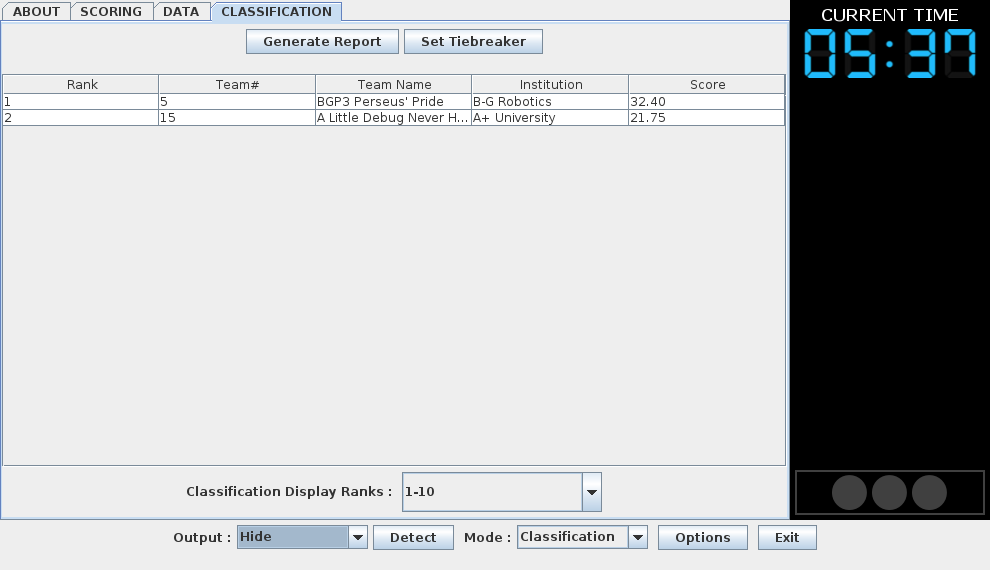
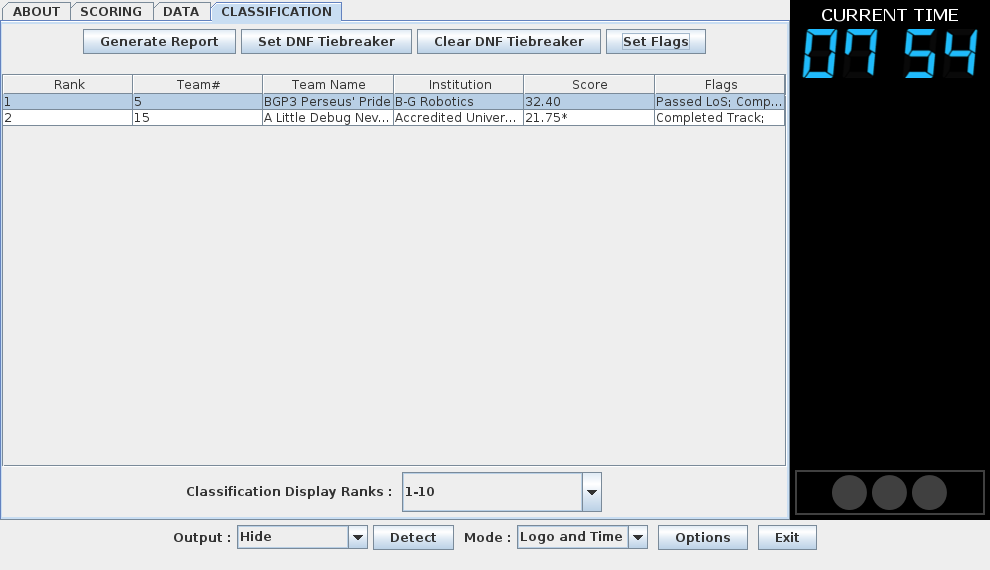
stuff

diff --git a/merccc/manual.html b/merccc/manual.html
@@ -10,14 +10,14 @@
 <body>
 <div class="container">
 <h1 id="top"><img alt="[*]" src="./images/merccc-logo.png" height="50" style="background-color: black; vertical-align: middle"> merccc</h1>
-<p class="centered">Manual for v1.3.0</p>
+<p class="centered">Manual for v1.4.0</p>
 <p>&#9662; <a href="./index.html#GET">Download <strong>merccc</strong></a></p>
 <h2>Table of Contents</h2>
 <p class="indent0">1. <a href="#config">Configuration</a></p>
 <p class="indent1">1.1 <a href="#config-encoding">File Encoding</a></p>
 <p class="indent1">1.2 <a href="#config-example">Example</a></p>
 <p class="indent1">1.3 <a href="#config-resources">Graphics and Sounds Resources</a></p>
-<p class="indent1">1.4 <a href="#config-variables">Formula Variables</a></p>
+<p class="indent1">1.4 <a href="#config-variables">Scoring</a></p>
 <p class="indent1">1.5 <a href="#config-teams">Team Definitions</a></p>
 <p class="indent0">2. <a href="#running">Running merccc</a></p>
 <p class="indent1">2.1 <a href="#running-cli">Command Line Options</a></p>
@@ -95,11 +95,21 @@ resources/0-badge.jpg<br />
 resources/1-badge.jpg<br />
 </p>
 <p>The configuration file and its resource directory can also be compressed into a ZIP file to simplify distribution and archival of the file. <strong>merccc</strong> can load the ZIP file directly.</p>
-<h3 id="config-variables">1.4 Formula Variables</h3>
+<h3 id="config-variables">1.4 Scoring</h3>
+<p>The <span class="mono">[formula]</span> section specifies the scoring formula with the <span class="mono">postfix</span> option. The formula has to be in postfix notation. The formula can have floating number literals. <strong>merccc</strong> supports the following operators to calculate a score: + - * / ^ and SQRT.</p>
 <p>The variables are defined in the <span class="mono">[fields]</span> section. All the variables used in the postfix formula must be specified in this section. The format for a variable entry is as follows:</p>
 <p class="mono">NAME=DESCRIPTION, DEFAULT_VALUE, TYPE, [POSSIBLE_VALUES]</p>
 <p><span class="mono">NAME</span> must correspond with the variable name used in the formula. <strong>merccc</strong> will use the <span class="mono">DEFAULT_VALUE</span> to fill in the value for the variable during scoring when the operator has not entered any other value.</p>
-<p><span class="mono">TYPE</span> specifies the kind of variable: <span class="mono">TYPE</span> of 0 is a floating point variable that can take any value. The program will bring up an input dialog for the operator to specify a value for the variable in a scoring session. <span class="mono">TYPE</span> of 1 is a discrete positive integer with minimum value of 0. The program will have +1 and UNDO buttons to modify this variable. <span class="mono">TYPE</span> of 2 or greater means that the variable has this many possible values. For example, a <span class="mono">TYPE</span> of 3 will need 3 possible values, delimited by colons, specified in the <span class="mono">POSSIBLE_VALUES</span> field. <span class="mono">POSSIBLE_VALUES</span> is not required for <span class="mono">TYPE</span> of 0 or 1.</p>
+<p><span class="mono">TYPE</span> specifies the kind of variable:</p>
+<ul>
+<li><span class="mono">TYPE</span> of 0 is a floating point variable that can take any value. The program will bring up an input dialog for the operator to specify a value for the variable in a scoring session.</li>
+<li><span class="mono">TYPE</span> of 1 is a discrete positive integer with minimum value of 0. The program will have +1 and UNDO buttons to modify this variable.</li>
+<li><span class="mono">TYPE</span> of 2 or greater means that the variable has this many possible values. For example, a <span class="mono">TYPE</span> of 3 will need 3 possible values, delimited by colons, specified in the <span class="mono">POSSIBLE_VALUES</span> field. <span class="mono">POSSIBLE_VALUES</span> is not required for <span class="mono">TYPE</span> of 0 or 1.</li>
+</ul>
+<p>The scoring system also supports optional "flags" for each participants that must be met to be classified or designated as the winner. The following is an example that requires the champion to pass "LOS Test Passed" and "Track Finished" flags, and the participants must pass "Track Finished" to be classified:</p>
+<p class="mono">champion_criteria=LOS Test Passed, Track Finished<br />
+classification_criteria=Track Finished</p>
+<p>These options must be specified in the <span class="mono">[formula]</span> section and can be omitted entirely. The flags can be applied to each team in the <a href="#classification">classification control</a> tab during the competition.</p>
 <h3 id="config-teams">1.5 Team Definitions</h3>
 <p>The teams are defined in the <span class="mono">[teams]</span> section. Each entry has the following format:</p>
 <p class="mono">ID=NAME, INSTITUTION, BADGE_FILE</p>
@@ -264,7 +274,11 @@ resources/1-badge.jpg<br />
 <p class="centered"><a href="./manual-images/control-data-add.png"><img alt="[Control Window Data Controls - adding a score entry]" class="bordered" src="./manual-images/control-data-add.png" style="width: 90%" /></a></p>
 <h2 id="classification">6. Classification Control <a class="plain" title="Back to Top" href="#top">&#9650;</a></h2>
 <p class="centered"><a href="./manual-images/control-classification.png"><img alt="[Control Window Classification]" class="bordered" src="./manual-images/control-classification.png" style="width: 90%" /></a></p>
-<p>The final tab "CLASSIFICATION" shows the current standings in the competition and allows the operator to generate a report text file with final rankings of the teams, scoring data, and the configuration file that was used for the session. The operator can also set a tiebreaker for teams that did not complete a run in the competition (higher tiebreaker value will be placed higher, and the default is 0 for all teams). Finally, the operator can control the ranks that are displayed in the <strong>Display Window</strong> in "Classification" output mode.</p>
+<p>The final tab "CLASSIFICATION" shows the current standings in the competition and allows the operator to generate a report text file with final rankings of the teams, scoring data, and the configuration file that was used for the session. The operator can also set a tiebreaker for teams that did not complete a run in the competition (higher tiebreaker value will be placed higher, and the default is the minimum for all teams).</p>
+<p>The operator can also set flags (if defined in the configuration) for each team.</p>
+<p class="centered"><a href="./manual-images/control-classification.png"><img alt="[Control Window Classification, Set Flags]" class="bordered" src="./manual-images/control-classification-flags.png" style="width: 90%" /></a></p>
+<p>The teams must meet the criteria for classification to be ranked, otherwise they will marked with a DNF. DNF teams are ranked by the highest committed score (if any) or the tiebreaker value if no score was committed for a team. Classified teams that did not meet the criteria to be a champion will be noted with an asterisk.</p>
+<p>Finally, the operator can control the ranks that are displayed in the <strong>Display Window</strong> in "Classification" output mode.</p>
 <h2 id="custom">7. Customization <a class="plain" title="Back to Top" href="#top">&#9650;</a></h2>
 <p>Some aspects of <strong>merccc</strong> can be customized to tailor the program to the competition better. This section only covers some customization options. Refer to the configuration file specifications for the full extent of what is possible.</p>
 <h3 id="custom-options">7.1 Options Menu</h3>
